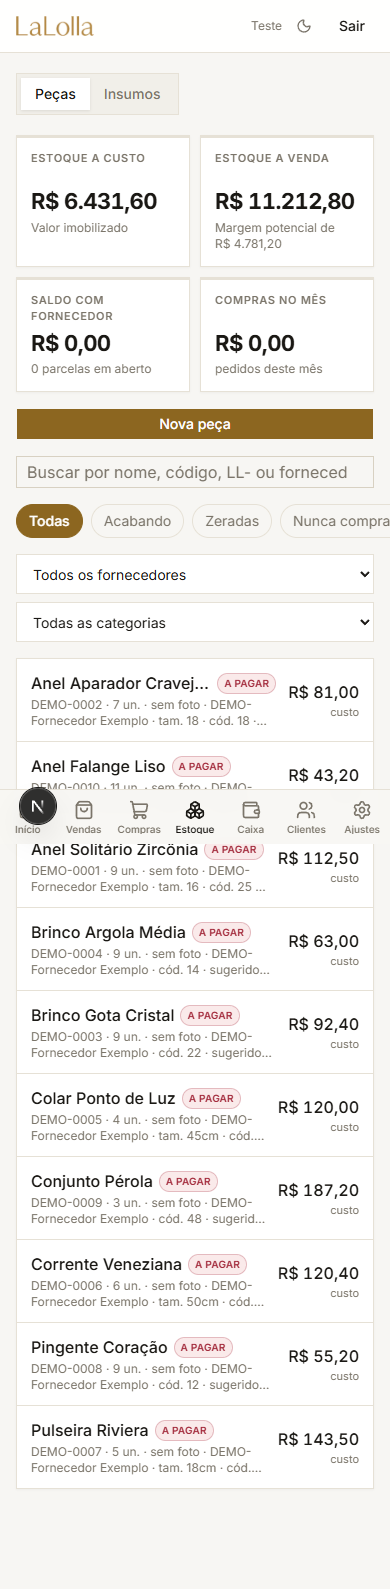
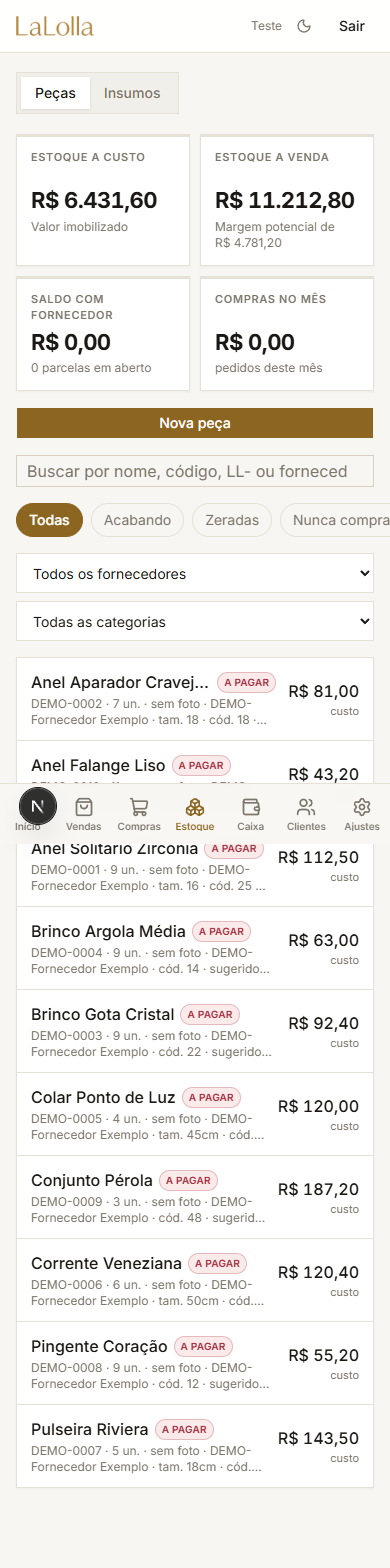
App instalável, barras nas bordas e cabeçalho fixo de verdade
O sticky que EU quebrei
-----------------------
O cabeçalho do celular parou de acompanhar a rolagem e o João viu na hora. A
culpa era do `overflow-x: hidden` que eu tinha posto para travar o deslize
lateral: ele transforma o elemento em CONTÊINER DE ROLAGEM, e aí todo
`position: sticky` lá dentro passa a grudar em relação ao body — que não
rola.

Trocado por `overflow-x: clip`, que corta o excesso sem criar contêiner. E o
cabeçalho virou `fixed`, como ele pediu: sobe, desce, continua lá.

Caixa entrando dentro da outra
------------------------------
O campo "Nova categoria" aparecia cortado ao meio pela barra de baixo. Eram
dois números escritos à mão que discordavam: o conteúdo reservava 80px e a
barra ocupava a própria altura MAIS a faixa de gestos do iPhone.

Agora existe `--nav-inferior`, e a barra e o espaço reservado leem o MESMO
token — não têm como divergir de novo. O mesmo para o cabeçalho, com
`--cabecalho-celular`.

As barras vão até a borda
-------------------------
`env(safe-area-inset-top)` no cabeçalho e `-bottom` na barra de baixo:
instalado como app, não existe moldura do Safari, e as barras precisam
ocupar também a faixa do relógio e a dos gestos. Sem isso sobrava uma tira
de fundo diferente em cima e embaixo.

Instalável, com o ícone da loja
-------------------------------
Manifesto novo com `display: standalone` — pela tela de início o app abre
sem barra de endereço. Os ícones são GERADOS da logo oficial
[…]

Changed region(s): [[0.0308, 0.0938, 1.0, 0.9375], [0.7077, 0.4062, 0.9846, 0.9375], [0.1231, 0.0312, 0.1846, 0.0625]]

diff --git a/src/app/(app)/layout.tsx b/src/app/(app)/layout.tsx
@@ -3,6 +3,7 @@ import { sessaoAtual } from "@/lib/auth/sessao";
 import { BarraNavegacao } from "@/components/layout/barra-navegacao";
 import { BarraLateral } from "@/components/layout/barra-lateral";
 import { Cabecalho } from "@/components/layout/cabecalho";
+import { cn } from "@/lib/utils";
 
 /*
  * Duas navegações, uma por tamanho de tela — como no app antigo:
@@ -23,8 +24,28 @@ export default async function AppLayout({ children }: { children: React.ReactNod
       <Cabecalho sessao={sessao} />
       <BarraLateral permissoes={sessao.permissoes} papel={sessao.papel} nome={sessao.nome} />
 
-      {/* pb-20 no celular reserva o espaço da barra fixa de baixo */}
-      <div className="flex-1 pb-20 md:pb-0">{children}</div>
+      {/*
+        Reserva o espaço da barra fixa de baixo.
+
+        `pb-20` fixo não bastava: a barra tem a própria altura MAIS a faixa de
+        gestos do iPhone, e o que sobrava por baixo ficava escondido atrás
+        dela. No Ajustes dava para ver o campo "Nova categoria" cortado pela
+        metade — foi a foto que o João mandou.
+
+        A conta usa a MESMA medida que a barra usa, então os dois não têm como
+        discordar.
+      */}
+      <div
+        className={cn(
+          "flex-1",
+          // por cima: o cabeçalho agora é fixo e sairia por cima do conteúdo
+          "pt-[calc(var(--cabecalho-celular)+env(safe-area-inset-top))] md:pt-0",
+          // por baixo: a barra de navegação mais a faixa de gestos
+          "pb-[calc(var(--nav-inferior)+env(safe-area-inset-bottom))] md:pb-0",
+        )}
+      >
+        {children}
+      </div>
 
       <BarraNavegacao permissoes={sessao.permissoes} papel={sessao.papel} />
     </div>

diff --git a/src/app/manifest.ts b/src/app/manifest.ts
@@ -1,0 +1,42 @@
+import type { MetadataRoute } from "next";
+
+/*
+ * O que faz o app ser INSTALÁVEL.
+ *
+ * Sem este arquivo, "Adicionar à Tela de Início" no Safari criava um atalho
+ * que abria dentro do navegador, com barra de endereço em cima e barra de
+ * botões embaixo comendo a tela — e com um ícone genérico, que foi o que o
+ * João viu.
+ *
+ * `display: "standalone"` é o que tira a moldura do navegador: aberto pela
+ * tela de início, o app ocupa a tela inteira e parece aplicativo.
+ *
+ * `background_color` é a cor que o sistema pinta no instante entre tocar no
+ * ícone e o app aparecer. Se ficasse branca, quem usa no escuro levaria um
+ * flash branco toda vez — é o mesmo cuidado do script de tema no <head>.
+ */
+export default function manifest(): MetadataRoute.Manifest {
+  return {
+    name: "LaLolla semijoias",
+    short_name: "LaLolla",
+    description: "Sistema de gestão da LaLolla semijoias.",
+    start_url: "/",
+    display: "standalone",
+    orientation: "portrait",
+    background_color: "#F7F6F3",
+    theme_color: "#F7F6F3",
+    lang: "pt-BR",
+    dir: "ltr",
+    categories: ["business", "productivity"],
+    icons: [
+      { src: "/icone-192.png", sizes: "192x192", type: "image/png", purpose: "any" },
+      { src: "/icone-512.png", sizes: "512x512", type: "image/png", purpose: "any" },
+      /*
+       * O Android recorta o ícone em círculo, losango ou quadrado arredondado
+       * conforme o aparelho. O "mascarado" tem margem maior de propósito, para
+       * a marca não perder pedaço no corte.
+       */
+      { src: "/icone-mascarado.png", sizes: "512x512", type: "image/png", purpose: "maskable" },
+    ],
+  };
+}

diff --git a/src/app/globals.css b/src/app/globals.css
@@ -88,6 +88,20 @@
   /* --- barra lateral (68px fechada, 244px aberta no hover) --- */
   --nav-fechada: 68px;
   --nav-aberta: 244px;
+  /*
+   * Altura da barra de baixo do celular, SEM a faixa de gestos do iPhone
+   * (essa entra por fora, com env(safe-area-inset-bottom)).
+   *
+   * Mora aqui para a barra e o espaço reservado no conteúdo lerem o MESMO
+   * número. Quando eram dois valores escritos à mão, eles discordaram: o
+   * conteúdo reservava 80px, a barra ocupava mais, e o que sobrava por baixo
+   * ficava escondido.
+   */
+  --nav-inferior: 60px;
+  /* Altura do cabeçalho do celular, sem a faixa do relógio (essa entra por
+     fora, com env(safe-area-inset-top)). Agora que ele é fixo, o conteúdo
+     precisa reservar exatamente isto por cima. */
+  --cabecalho-celular: 52px;
   --ll-ease: cubic-bezier(.22, .72, .24, 1);
 
   /* --- ponte para os tokens do shadcn --- */
@@ -246,10 +260,21 @@
     touch-action: manipulation;
     overscroll-behavior: none;
   }
+  /*
+   * `clip`, NÃO `hidden` — e a diferença quebrou coisa de verdade.
+   *
+   * `overflow-x: hidden` transforma o elemento em CONTÊINER DE ROLAGEM. Com
+   * isso, todo `position: sticky` lá dentro passa a grudar em relação ao
+   * body (que não rola) em vez da página — e o cabeçalho "LaLolla" do celular
+   * parou de acompanhar a rolagem. O João viu na hora.
+   *
+   * `clip` corta o que passa da largura sem criar contêiner de rolagem: o
+   * sticky continua funcionando e a tela continua não deslizando de lado.
+   */
   html,
   body {
     max-width: 100%;
-    overflow-x: hidden;
+    overflow-x: clip;
   }
 }
 

diff --git a/src/components/layout/barra-navegacao.tsx b/src/components/layout/barra-navegacao.tsx
@@ -33,7 +33,9 @@ export function BarraNavegacao({ permissoes, papel }: { permissoes: Permissoes; 
       data-nav="inferior"
     >
       <div
-        className="mx-auto grid w-full max-w-3xl"
+        // A altura vem do mesmo token que o conteúdo usa para reservar o
+        // espaço, senão os dois discordam e a barra come o fim da página.
+        className="mx-auto grid h-(--nav-inferior) w-full max-w-3xl items-center"
         // minmax(0,1fr) e não 1fr: `1fr` é minmax(auto,1fr) e não encolhe
         // abaixo do conteúdo — foi assim que a barra estourou no app antigo.
         style={{ gridTemplateColumns: `repeat(${visiveis.length}, minmax(0, 1fr))` }}
@@ -50,8 +52,9 @@ export function BarraNavegacao({ permissoes, papel }: { permissoes: Permissoes; 
               prefetch
               aria-current={ativo(i.href) ? "page" : undefined}
               className={cn(
-                "flex min-w-0 flex-col items-center gap-1 px-1 py-2.5 text-center",
-                ativo(i.href) ? "text-foreground" : "text-muted-foreground",
+                "flex h-full min-w-0 flex-col items-center justify-center gap-1 px-1 text-center",
+                "transition-colors duration-150",
+                ativo(i.href) ? "text-(--ll-accent)" : "text-muted-foreground",
               )}
             >
               <Icone className="size-5 shrink-0" aria-hidden />

diff --git a/src/components/layout/cabecalho.tsx b/src/components/layout/cabecalho.tsx
@@ -2,6 +2,7 @@ import Image from "next/image";
 import Link from "next/link";
 import { logoutAction } from "@/modules/auth/auth.actions";
 import { Button } from "@/components/ui/button";
+import { cn } from "@/lib/utils";
 import { BotaoTema } from "./tema";
 import type { Sessao } from "@/lib/auth/sessao";
 
@@ -13,7 +14,21 @@ import type { Sessao } from "@/lib/auth/sessao";
  */
 export function Cabecalho({ sessao }: { sessao: Sessao }) {
   return (
-    <header className="sticky top-0 z-40 border-b bg-card/95 backdrop-blur md:hidden">
+    /*
+     * FIXO no celular, não só "sticky" — pedido do João: "quando for pra
+     * baixo ou pra cima ela continua aparecendo".
+     *
+     * E `pt-[env(safe-area-inset-top)]`: instalado como app, não existe barra
+     * do Safari por cima, e o cabeçalho precisa ocupar também a faixa do
+     * relógio e da bateria. Sem isso sobra uma tira de fundo diferente no
+     * topo, que é justamente o "não completa até lá em cima".
+     */
+    <header
+      className={cn(
+        "fixed inset-x-0 top-0 z-50 border-b bg-card/95 backdrop-blur md:hidden",
+        "pt-[env(safe-area-inset-top)]",
+      )}
+    >
       {/*
         Alvo de dedo em tudo que se toca aqui.
         A sonda de celular pegou: a logo tinha 20px de altura clicável e o

diff --git a/src/components/layout/tema.tsx b/src/components/layout/tema.tsx
@@ -3,7 +3,7 @@
 import { useEffect, useState } from "react";
 import { Monitor, Moon, Sun } from "lucide-react";
 import { cn } from "@/lib/utils";
-import { CHAVE_TEMA, type Tema } from "./tema.constantes";
+import { CHAVE_TEMA, COR_BARRA_CLARA, COR_BARRA_ESCURA, type Tema } from "./tema.constantes";
 
 /*
  * Claro, escuro ou o que o aparelho estiver usando.
@@ -34,6 +34,17 @@ function aplicar(tema: Tema) {
   const escuro = tema === "escuro" || (tema === "sistema" && prefereEscuro());
   raiz.classList.toggle("dark", escuro);
   raiz.dataset.theme = escuro ? "dark" : "light";
+
+  /*
+   * A barra do sistema acompanha.
+   *
+   * Instalado como app, o iPhone pinta a faixa do relógio e da bateria com a
+   * cor deste meta. Deixá-la fixa faria o app no escuro abrir com uma tira
+   * clara em cima — a emenda apareceria justamente onde o João quer que não
+   * apareça nada.
+   */
+  const meta = document.querySelector('meta[name="theme-color"]');
+  if (meta) meta.setAttribute("content", escuro ? COR_BARRA_ESCURA : COR_BARRA_CLARA);
   try {
     if (tema === "sistema") localStorage.removeItem(CHAVE_TEMA);
     else localStorage.setItem(CHAVE_TEMA, tema);

diff --git a/src/components/layout/tema.constantes.ts b/src/components/layout/tema.constantes.ts
@@ -13,6 +13,15 @@
 
 export const CHAVE_TEMA = "lalolla-tema";
 
+/*
+ * A cor que o sistema pinta na faixa do relógio quando o app está instalado.
+ * São os mesmos valores de `--ll-canvas` (claro) e do fundo escuro — se um
+ * dia mudarem no globals.css, mudam aqui junto, senão aparece uma emenda de
+ * cor no topo.
+ */
+export const COR_BARRA_CLARA = "#F7F6F3";
+export const COR_BARRA_ESCURA = "#0D0D0D";
+
 export type Tema = "claro" | "escuro" | "sistema";
 
 /*
@@ -42,5 +51,7 @@ try {
   var r = document.documentElement;
   r.classList.toggle("dark", escuro);
   r.dataset.theme = escuro ? "dark" : "light";
+  var m = document.querySelector('meta[name="theme-color"]');
+  if (m) m.setAttribute("content", escuro ? ${JSON.stringify(COR_BARRA_ESCURA)} : ${JSON.stringify(COR_BARRA_CLARA)});
 } catch (e) {}
 `.trim();
